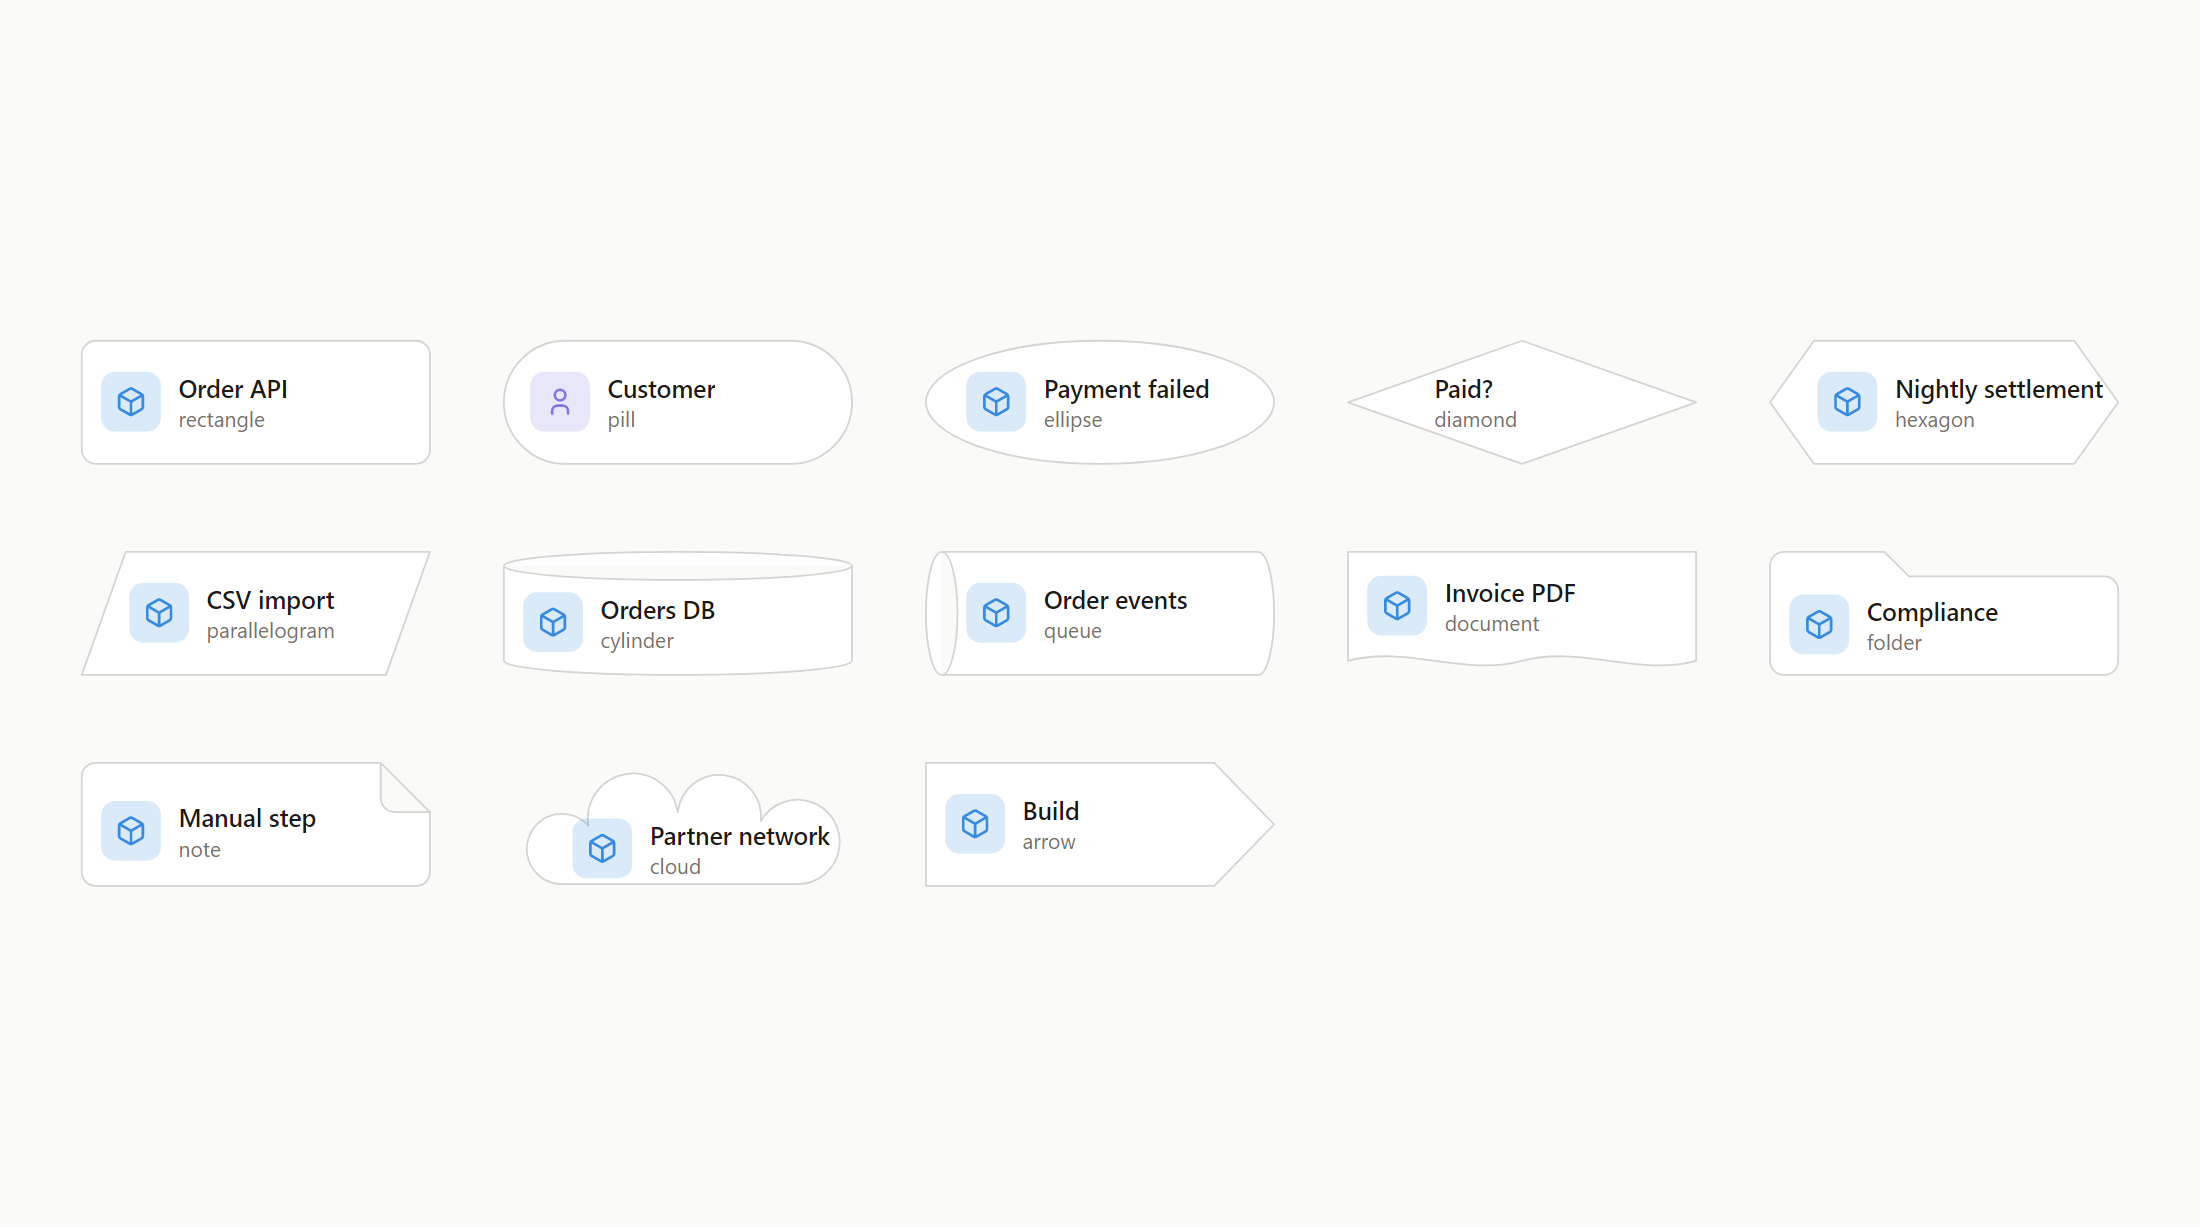
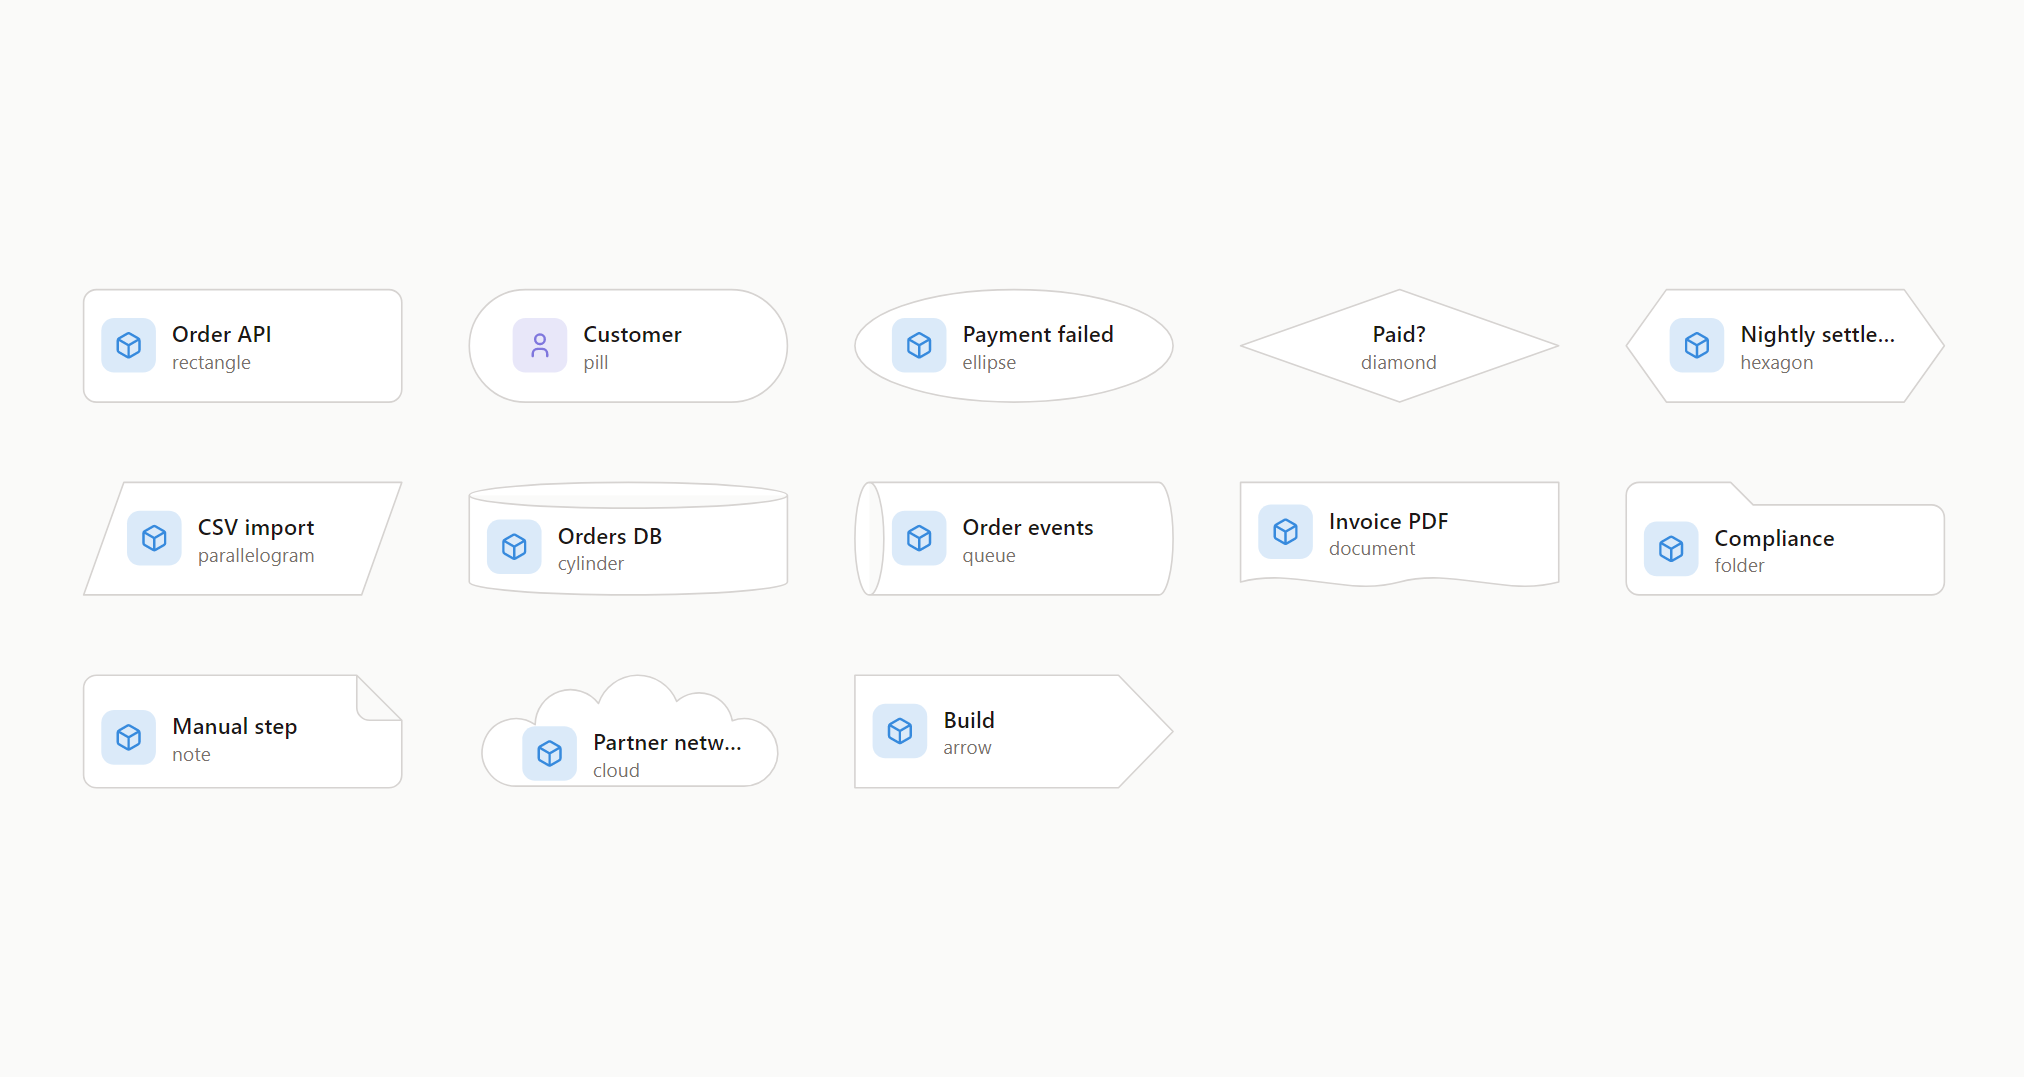
feat: text sits inside each shape, a cartoon cloud, and hover shows a long name
The pill starts its words clear of the curve, the diamond centres them, and the cloud is drawn from five circles with room for the tile. A name or tech that is trimmed shows whole in the hover, in the browser and the desktop app. The desktop app trims at the shape's own room, as the browser does.

diff --git a/ui/src/Box.tsx b/ui/src/Box.tsx
@@ -74,34 +74,40 @@ function useStateMark(state: StateMark | undefined, snap: boolean | undefined): 
  */
 export function Box({ id, data: { object, inside, icon, perf, fail, state, snap }, isConnectable }: NodeProps<BoxNode>) {
   const [hover, setHover] = useState(false)
+  const [clipped, setClipped] = useState(false)
+  const text = useRef<HTMLDivElement>(null)
   const { shown, leaving } = useStateMark(state, snap)
   const connecting = useConnection(c => c.inProgress)
   const short = teaser(object.description)
   const external = isExternal(object)
   const { path, pad: [top, right, bottom, left], badge } = SHAPE_DEFS[shapeOf(object)]
+  const shape = shapeOf(object)
+  const name = object.name || id
+  const meta = [external && 'external', object.tech || object.type].filter(Boolean).join(' · ')
   const kind = external ? `external ${object.type}` : object.type
   return (
     <div
-      className={`box box-${object.type}${external ? ' external' : ''}${isColor(object.color) ? ' colored' : ''}${fillOpacity(object) > 0 ? ' tinted' : ''}${onFill(object) ? ' on' : ''}${perf?.strain !== undefined ? ' strained' : ''}${shown ? ` ${stateClasses(shown)}${leaving ? ' state-leaving' : ''}` : ''}`}
+      className={`box box-${object.type} shape-${shape}${external ? ' external' : ''}${isColor(object.color) ? ' colored' : ''}${fillOpacity(object) > 0 ? ' tinted' : ''}${onFill(object) ? ' on' : ''}${perf?.strain !== undefined ? ' strained' : ''}${shown ? ` ${stateClasses(shown)}${leaving ? ' state-leaving' : ''}` : ''}`}
       style={{ ...lookVars(object), ...(perf?.strain !== undefined && { '--strain': perf.strain }), padding: `${top}px ${right}px ${bottom}px ${left}px` }}
-      onMouseEnter={() => setHover(true)} onMouseLeave={() => setHover(false)}
+      onMouseEnter={() => { setHover(true); setClipped([...text.current?.children ?? []].some(e => e.scrollWidth > e.clientWidth)) }} onMouseLeave={() => setHover(false)}
     >
       <svg className="shape" viewBox="0 0 200 72" aria-hidden="true"><path d={path} /></svg>
       {shown && !shown.inside && <svg className="state-outline" viewBox="0 0 200 72" aria-hidden="true"><path d={path} pathLength={100} /></svg>}
       <Handle type="target" position={Position.Top} isConnectable={isConnectable} isConnectableStart={false} className={connecting ? 'drop' : undefined} />
       {showsTile(object) && <span className="tile" role="img" aria-label={kind} title={kind}><PathIcon d={icon} /></span>}
-      <div className="box-text">
-        <div className="box-name">{object.name || id}</div>
-        <div className="box-meta">{[external && 'external', object.tech || object.type].filter(Boolean).join(' · ')}</div>
+      <div className="box-text" ref={text}>
+        <div className="box-name">{name}</div>
+        <div className="box-meta">{meta}</div>
       </div>
       {perf && perf.queue > 0 && <span className="queue-badge" title={`${perf.queue} waiting`}>{perf.queue}</span>}
       {fail && <FailBadge mark={fail} />}
       {shown && <StateGlyph mark={shown} />}
       {inside > 0 && <span className="inside" style={{ right: badge[0], bottom: badge[1] }}><ZoomIn />{inside} inside</span>}
       <Handle type="source" position={Position.Bottom} isConnectable={isConnectable} />
-      {short && (
+      {(short || clipped) && (
         <NodeToolbar isVisible={hover} position={Position.Bottom} className="teaser">
-          <Description text={short} />
+          {clipped && <div className="teaser-name"><b>{name}</b><span>{meta}</span></div>}
+          {short && <Description text={short} />}
         </NodeToolbar>
       )}
     </div>

diff --git a/src/core/look.ts b/src/core/look.ts
@@ -30,7 +30,7 @@ const stadium = (): [number, number][] => [
 
 export const SHAPE_DEFS: Record<Shape, ShapeDef> = {
   rectangle: { path: 'M9 1H191A8 8 0 0 1 199 9V63A8 8 0 0 1 191 71H9A8 8 0 0 1 1 63V9A8 8 0 0 1 9 1Z', pad: [0, 14, 0, 12], badge: [9, 5], tile: true, edge: [] },
-  pill: { path: 'M36 1H164A35 35 0 0 1 164 71H36A35 35 0 0 1 36 1Z', pad: [0, 22, 0, 16], badge: [20, 5], tile: true, edge: stadium() },
+  pill: { path: 'M36 1H164A35 35 0 0 1 164 71H36A35 35 0 0 1 36 1Z', pad: [0, 30, 0, 28], badge: [24, 5], tile: true, edge: stadium() },
   ellipse: { path: 'M1 36A99 35 0 0 1 199 36A99 35 0 0 1 1 36Z', pad: [0, 26, 0, 24], badge: [34, 7], tile: true, edge: ellipse(100, 36, 99, 35) },
   diamond: { path: 'M100 1L199 36L100 71L1 36Z', pad: [0, 50, 0, 50], badge: [66, 9], tile: false, edge: [[100, 1], [199, 36], [100, 71], [1, 36]] },
   hexagon: { path: 'M26 1H174L199 36L174 71H26L1 36Z', pad: [0, 28, 0, 28], badge: [28, 6], tile: true, edge: [[26, 1], [174, 1], [199, 36], [174, 71], [26, 71], [1, 36]] },
@@ -40,7 +40,7 @@ export const SHAPE_DEFS: Record<Shape, ShapeDef> = {
   document: { path: 'M1 1H199V63C166 72 133 54 100 63C67 72 34 54 1 63Z', pad: [0, 14, 8, 12], badge: [9, 12], tile: true, edge: [] },
   folder: { path: 'M1 9A8 8 0 0 1 9 1H66L80 15H191A8 8 0 0 1 199 23V63A8 8 0 0 1 191 71H9A8 8 0 0 1 1 63Z', pad: [14, 14, 0, 12], badge: [9, 5], tile: true, edge: [] },
   note: { path: 'M1 9A8 8 0 0 1 9 1H171L199 29V63A8 8 0 0 1 191 71H9A8 8 0 0 1 1 63ZM171 1V21A8 8 0 0 0 179 29H199', pad: [8, 14, 0, 12], badge: [9, 5], tile: true, edge: [] },
-  cloud: { path: 'M34 70A20 20 0 1 1 49 36.7A24 24 0 1 1 99.9 29A22 22 0 1 1 147.1 34.2A24 24 0 1 1 168 70Z', pad: [28, 34, 0, 40], badge: [26, 6], tile: true, edge: ellipse(103, 40, 86, 31, 24) },
+  cloud: { path: 'M30 70H172A21 21 0 1 0 164.67 29.32A21 21 0 0 0 130.1 17.25A26 26 0 0 0 81.41 18.55A22 22 0 0 0 42 31.77A21 21 0 1 0 30 70Z', pad: [30, 26, 2, 34], badge: [30, 6], tile: true, edge: ellipse(100, 38, 92, 33, 24) },
   arrow: { path: 'M1 1H165L199 36L165 71H1Z', pad: [0, 36, 0, 12], badge: [34, 5], tile: true, edge: [[1, 1], [165, 1], [199, 36], [165, 71], [1, 71]] },
 }
 

diff --git a/ui/src/style.css b/ui/src/style.css
@@ -210,6 +210,9 @@ svg { flex: none; }
   color: var(--c, var(--muted)); background: color-mix(in srgb, var(--c, var(--muted)) 18%, transparent);
 }
 .box-text { min-width: 0; }
+/* A diamond has its point at each side, so what it holds sits in the middle. */
+.box.shape-diamond { justify-content: center; }
+.box.shape-diamond .box-text { text-align: center; }
 .box-name { font-weight: 600; white-space: nowrap; overflow: hidden; text-overflow: ellipsis; }
 .box-meta { color: var(--muted); font-size: 12px; white-space: nowrap; overflow: hidden; text-overflow: ellipsis; }
 .inside { position: absolute; right: 9px; bottom: 5px; display: flex; align-items: center; gap: 3px; color: var(--muted); font-size: 11px; }
@@ -238,6 +241,9 @@ svg { flex: none; }
   background: var(--box); box-shadow: 0 2px 8px #0003; animation: fade-in 0.15s 0.4s both;
 }
 .teaser p { margin: 0; }
+.teaser-name { display: grid; gap: 1px; overflow-wrap: anywhere; }
+.teaser-name:not(:last-child) { margin-bottom: 6px; padding-bottom: 6px; border-bottom: 1px solid var(--line); }
+.teaser-name span { color: var(--muted); font-size: 12px; }
 @keyframes fade-in { from { opacity: 0; } }
 
 /*

diff --git a/desktop/Flowy.App/Canvas/BoxControl.cs b/desktop/Flowy.App/Canvas/BoxControl.cs
@@ -27,6 +27,7 @@ internal sealed class BoxControl : Grid
     private readonly TextBlock _name = new();
     private readonly TextBlock _meta = new();
     private readonly StackPanel _content;
+    private readonly StackPanel _text;
     private readonly StackPanel _inside = new();
     private readonly TextBlock _insideText = new();
     private readonly Path _zoom;
@@ -44,6 +45,7 @@ internal sealed class BoxControl : Grid
     private readonly Ellipse _handle = new() { Width = 10, Height = 10, IsHitTestVisible = false, IsVisible = false, HorizontalAlignment = HorizontalAlignment.Center, VerticalAlignment = VerticalAlignment.Bottom, Margin = new Thickness(0, 0, 0, 3) };
     private Path? _icon;
     private string? _teaser;
+    private string _tipKey = "";
     private bool _external;
     private string _type = "";
     private string _iconData = "";
@@ -85,16 +87,15 @@ internal sealed class BoxControl : Grid
         _tile.Classes.Add("tile");
         _name.Classes.Add("name");
         _meta.Classes.Add("meta");
-        var text = new StackPanel { VerticalAlignment = VerticalAlignment.Center, Children = { _name, _meta } };
+        _text = new StackPanel { VerticalAlignment = VerticalAlignment.Center, Children = { _name, _meta } };
         _content = new StackPanel
         {
             Orientation = Orientation.Horizontal,
             Spacing = 10,
             VerticalAlignment = VerticalAlignment.Center,
             IsHitTestVisible = false,
-            Children = { _tile, text },
+            Children = { _tile, _text },
         };
-        text.MaxWidth = 130;
 
         _insideText.Classes.Add("inside");
         _inside.Orientation = Orientation.Horizontal;
@@ -170,8 +171,13 @@ internal sealed class BoxControl : Grid
         }
         // Where content may sit inside the shape, and where "3 inside" goes.
         _content.Margin = new Thickness(def.Pad[3], def.Pad[0], def.Pad[1], def.Pad[2]);
+        // The words end where the shape says they may, so a long name is trimmed there and not at the edge; a diamond holds its content in the middle.
+        var tile = Look.ShowsTile(o);
+        _text.MaxWidth = Math.Max(20, 200 - def.Pad[3] - def.Pad[1] - (tile ? 34 + _content.Spacing : 0));
+        _content.HorizontalAlignment = shape == "diamond" ? HorizontalAlignment.Center : HorizontalAlignment.Left;
+        _name.TextAlignment = _meta.TextAlignment = shape == "diamond" ? TextAlignment.Center : TextAlignment.Left;
         _inside.Margin = new Thickness(0, 0, def.Badge[0], def.Badge[1]);
-        _tile.IsVisible = Look.ShowsTile(o);
+        _tile.IsVisible = tile;
 
         _tintAlpha = opacity / 100.0;
         _tint.Opacity = _tintAlpha * _dim;
@@ -221,17 +227,53 @@ internal sealed class BoxControl : Grid
         _meta.Text = string.Join(" · ", new[] { external ? "external" : null, string.IsNullOrEmpty(o.Tech) ? o.Type : o.Tech }.Where(s => !string.IsNullOrEmpty(s)));
         _inside.IsVisible = box.Inside > 0;
         _insideText.Text = $"{box.Inside} inside";
-        // Pointing at a box for a moment shows the first paragraph of its description.
+        // Pointing at a box for a moment shows the first paragraph of its description, and the whole name when it doesn't fit.
         var teaser = Navigation.Teaser(o.Description);
         if (teaser is { Length: > 400 }) teaser = teaser[..400] + "…"; // a tooltip is built for every box, so it stays small
-        if (teaser != _teaser)
-        {
-            _teaser = teaser;
-            ToolTip.SetTip(this, string.IsNullOrWhiteSpace(teaser) ? null : new Border { MaxWidth = 260, Child = new MarkdownView(teaser, 13) });
-            ToolTip.SetPlacement(this, PlacementMode.Bottom);
-            ToolTip.SetShowDelay(this, 400);
-        }
+        _teaser = teaser;
+        RefreshTip();
         AutomationProperties.SetName(this, $"{_name.Text}, {(external ? "external " : "")}{o.Type}");
+    }
+
+    protected override void OnPointerEntered(Avalonia.Input.PointerEventArgs e)
+    {
+        base.OnPointerEntered(e);
+        RefreshTip();
+    }
+
+    /// <summary>Whether the text, at the font it is drawn in, is wider than the room it has, so that it shows an ellipsis.</summary>
+    private bool Trimmed(TextBlock block)
+    {
+        if (string.IsNullOrEmpty(block.Text)) return false;
+        var face = new Typeface(block.FontFamily, block.FontStyle, block.FontWeight, block.FontStretch);
+        var width = new FormattedText(block.Text, System.Globalization.CultureInfo.CurrentUICulture, FlowDirection.LeftToRight, face, block.FontSize, Brushes.Black).Width;
+        return width > _text.MaxWidth + 0.5;
+    }
+
+    /// <summary>The tooltip: the whole name, and what it says under it, when either is cut short; then the first paragraph of the description. None when there is nothing to add.</summary>
+    private void RefreshTip()
+    {
+        var cut = Trimmed(_name) || Trimmed(_meta);
+        var key = string.Join((char)10, _teaser, cut, cut ? _name.Text : "", cut ? _meta.Text : "");
+        if (key == _tipKey) return;
+        _tipKey = key;
+        if (!cut && string.IsNullOrWhiteSpace(_teaser))
+        {
+            ToolTip.SetTip(this, null);
+            return;
+        }
+        var tip = new StackPanel { MaxWidth = 260, Spacing = 6 };
+        if (cut)
+        {
+            var title = new StackPanel { Spacing = 1 };
+            title.Children.Add(new TextBlock { Text = _name.Text, FontWeight = FontWeight.SemiBold, TextWrapping = TextWrapping.Wrap });
+            if (!string.IsNullOrEmpty(_meta.Text)) title.Children.Add(new TextBlock { Text = _meta.Text, FontSize = 12, Classes = { "muted" }, TextWrapping = TextWrapping.Wrap });
+            tip.Children.Add(title);
+        }
+        if (!string.IsNullOrWhiteSpace(_teaser)) tip.Children.Add(new MarkdownView(_teaser, 13));
+        ToolTip.SetTip(this, tip);
+        ToolTip.SetPlacement(this, PlacementMode.Bottom);
+        ToolTip.SetShowDelay(this, 400);
     }
 
     /// <summary>Edit mode: a dot at the bottom edge to draw a connection from, and a cursor that says the shape can be moved.</summary>
@@ -476,6 +518,7 @@ internal sealed class BoxControl : Grid
     protected override void OnAttachedToVisualTree(VisualTreeAttachmentEventArgs e)
     {
         base.OnAttachedToVisualTree(e);
+        RefreshTip();
         if (_state is not null && _loop is null) StartMotion();
     }
 

diff --git a/desktop/Flowy.Core/LookData.cs b/desktop/Flowy.Core/LookData.cs
@@ -12,7 +12,7 @@ public static class LookData
     public static readonly IReadOnlyDictionary<string, ShapeDef> Shapes = new Dictionary<string, ShapeDef>
     {
         ["rectangle"] = new("M9 1H191A8 8 0 0 1 199 9V63A8 8 0 0 1 191 71H9A8 8 0 0 1 1 63V9A8 8 0 0 1 9 1Z", [0, 14, 0, 12], [9, 5], true, []),
-        ["pill"] = new("M36 1H164A35 35 0 0 1 164 71H36A35 35 0 0 1 36 1Z", [0, 22, 0, 16], [20, 5], true, [164, 1, 173.06, 2.19, 181.5, 5.69, 188.75, 11.25, 194.31, 18.5, 197.81, 26.94, 199, 36, 197.81, 45.06, 194.31, 53.5, 188.75, 60.75, 181.5, 66.31, 173.06, 69.81, 164, 71, 36, 71, 26.94, 69.81, 18.5, 66.31, 11.25, 60.75, 5.69, 53.5, 2.19, 45.06, 1, 36, 2.19, 26.94, 5.69, 18.5, 11.25, 11.25, 18.5, 5.69, 26.94, 2.19, 36, 1]),
+        ["pill"] = new("M36 1H164A35 35 0 0 1 164 71H36A35 35 0 0 1 36 1Z", [0, 30, 0, 28], [24, 5], true, [164, 1, 173.06, 2.19, 181.5, 5.69, 188.75, 11.25, 194.31, 18.5, 197.81, 26.94, 199, 36, 197.81, 45.06, 194.31, 53.5, 188.75, 60.75, 181.5, 66.31, 173.06, 69.81, 164, 71, 36, 71, 26.94, 69.81, 18.5, 66.31, 11.25, 60.75, 5.69, 53.5, 2.19, 45.06, 1, 36, 2.19, 26.94, 5.69, 18.5, 11.25, 11.25, 18.5, 5.69, 26.94, 2.19, 36, 1]),
         ["ellipse"] = new("M1 36A99 35 0 0 1 199 36A99 35 0 0 1 1 36Z", [0, 26, 0, 24], [34, 7], true, [199, 36, 197.1, 42.83, 191.46, 49.39, 182.32, 55.44, 170, 60.75, 155, 65.1, 137.89, 68.34, 119.31, 70.33, 100, 71, 80.69, 70.33, 62.11, 68.34, 45, 65.1, 30, 60.75, 17.68, 55.44, 8.54, 49.39, 2.9, 42.83, 1, 36, 2.9, 29.17, 8.54, 22.61, 17.68, 16.56, 30, 11.25, 45, 6.9, 62.11, 3.66, 80.69, 1.67, 100, 1, 119.31, 1.67, 137.89, 3.66, 155, 6.9, 170, 11.25, 182.32, 16.56, 191.46, 22.61, 197.1, 29.17]),
         ["diamond"] = new("M100 1L199 36L100 71L1 36Z", [0, 50, 0, 50], [66, 9], false, [100, 1, 199, 36, 100, 71, 1, 36]),
         ["hexagon"] = new("M26 1H174L199 36L174 71H26L1 36Z", [0, 28, 0, 28], [28, 6], true, [26, 1, 174, 1, 199, 36, 174, 71, 26, 71, 1, 36]),
@@ -22,7 +22,7 @@ public static class LookData
         ["document"] = new("M1 1H199V63C166 72 133 54 100 63C67 72 34 54 1 63Z", [0, 14, 8, 12], [9, 12], true, []),
         ["folder"] = new("M1 9A8 8 0 0 1 9 1H66L80 15H191A8 8 0 0 1 199 23V63A8 8 0 0 1 191 71H9A8 8 0 0 1 1 63Z", [14, 14, 0, 12], [9, 5], true, []),
         ["note"] = new("M1 9A8 8 0 0 1 9 1H171L199 29V63A8 8 0 0 1 191 71H9A8 8 0 0 1 1 63ZM171 1V21A8 8 0 0 0 179 29H199", [8, 14, 0, 12], [9, 5], true, []),
-        ["cloud"] = new("M34 70A20 20 0 1 1 49 36.7A24 24 0 1 1 99.9 29A22 22 0 1 1 147.1 34.2A24 24 0 1 1 168 70Z", [28, 34, 0, 40], [26, 6], true, [189, 40, 186.07, 48.02, 177.48, 55.5, 163.81, 61.92, 146, 66.85, 125.26, 69.94, 103, 71, 80.74, 69.94, 60, 66.85, 42.19, 61.92, 28.52, 55.5, 19.93, 48.02, 17, 40, 19.93, 31.98, 28.52, 24.5, 42.19, 18.08, 60, 13.15, 80.74, 10.06, 103, 9, 125.26, 10.06, 146, 13.15, 163.81, 18.08, 177.48, 24.5, 186.07, 31.98]),
+        ["cloud"] = new("M30 70H172A21 21 0 1 0 164.67 29.32A21 21 0 0 0 130.1 17.25A26 26 0 0 0 81.41 18.55A22 22 0 0 0 42 31.77A21 21 0 1 0 30 70Z", [30, 26, 2, 34], [30, 6], true, [192, 38, 188.87, 46.54, 179.67, 54.5, 165.05, 61.33, 146, 66.58, 123.81, 69.88, 100, 71, 76.19, 69.88, 54, 66.58, 34.95, 61.33, 20.33, 54.5, 11.13, 46.54, 8, 38, 11.13, 29.46, 20.33, 21.5, 34.95, 14.67, 54, 9.42, 76.19, 6.12, 100, 5, 123.81, 6.12, 146, 9.42, 165.05, 14.67, 179.67, 21.5, 188.87, 29.46]),
         ["arrow"] = new("M1 1H165L199 36L165 71H1Z", [0, 36, 0, 12], [34, 5], true, [1, 1, 165, 1, 199, 36, 165, 71, 1, 71]),
     };
 
